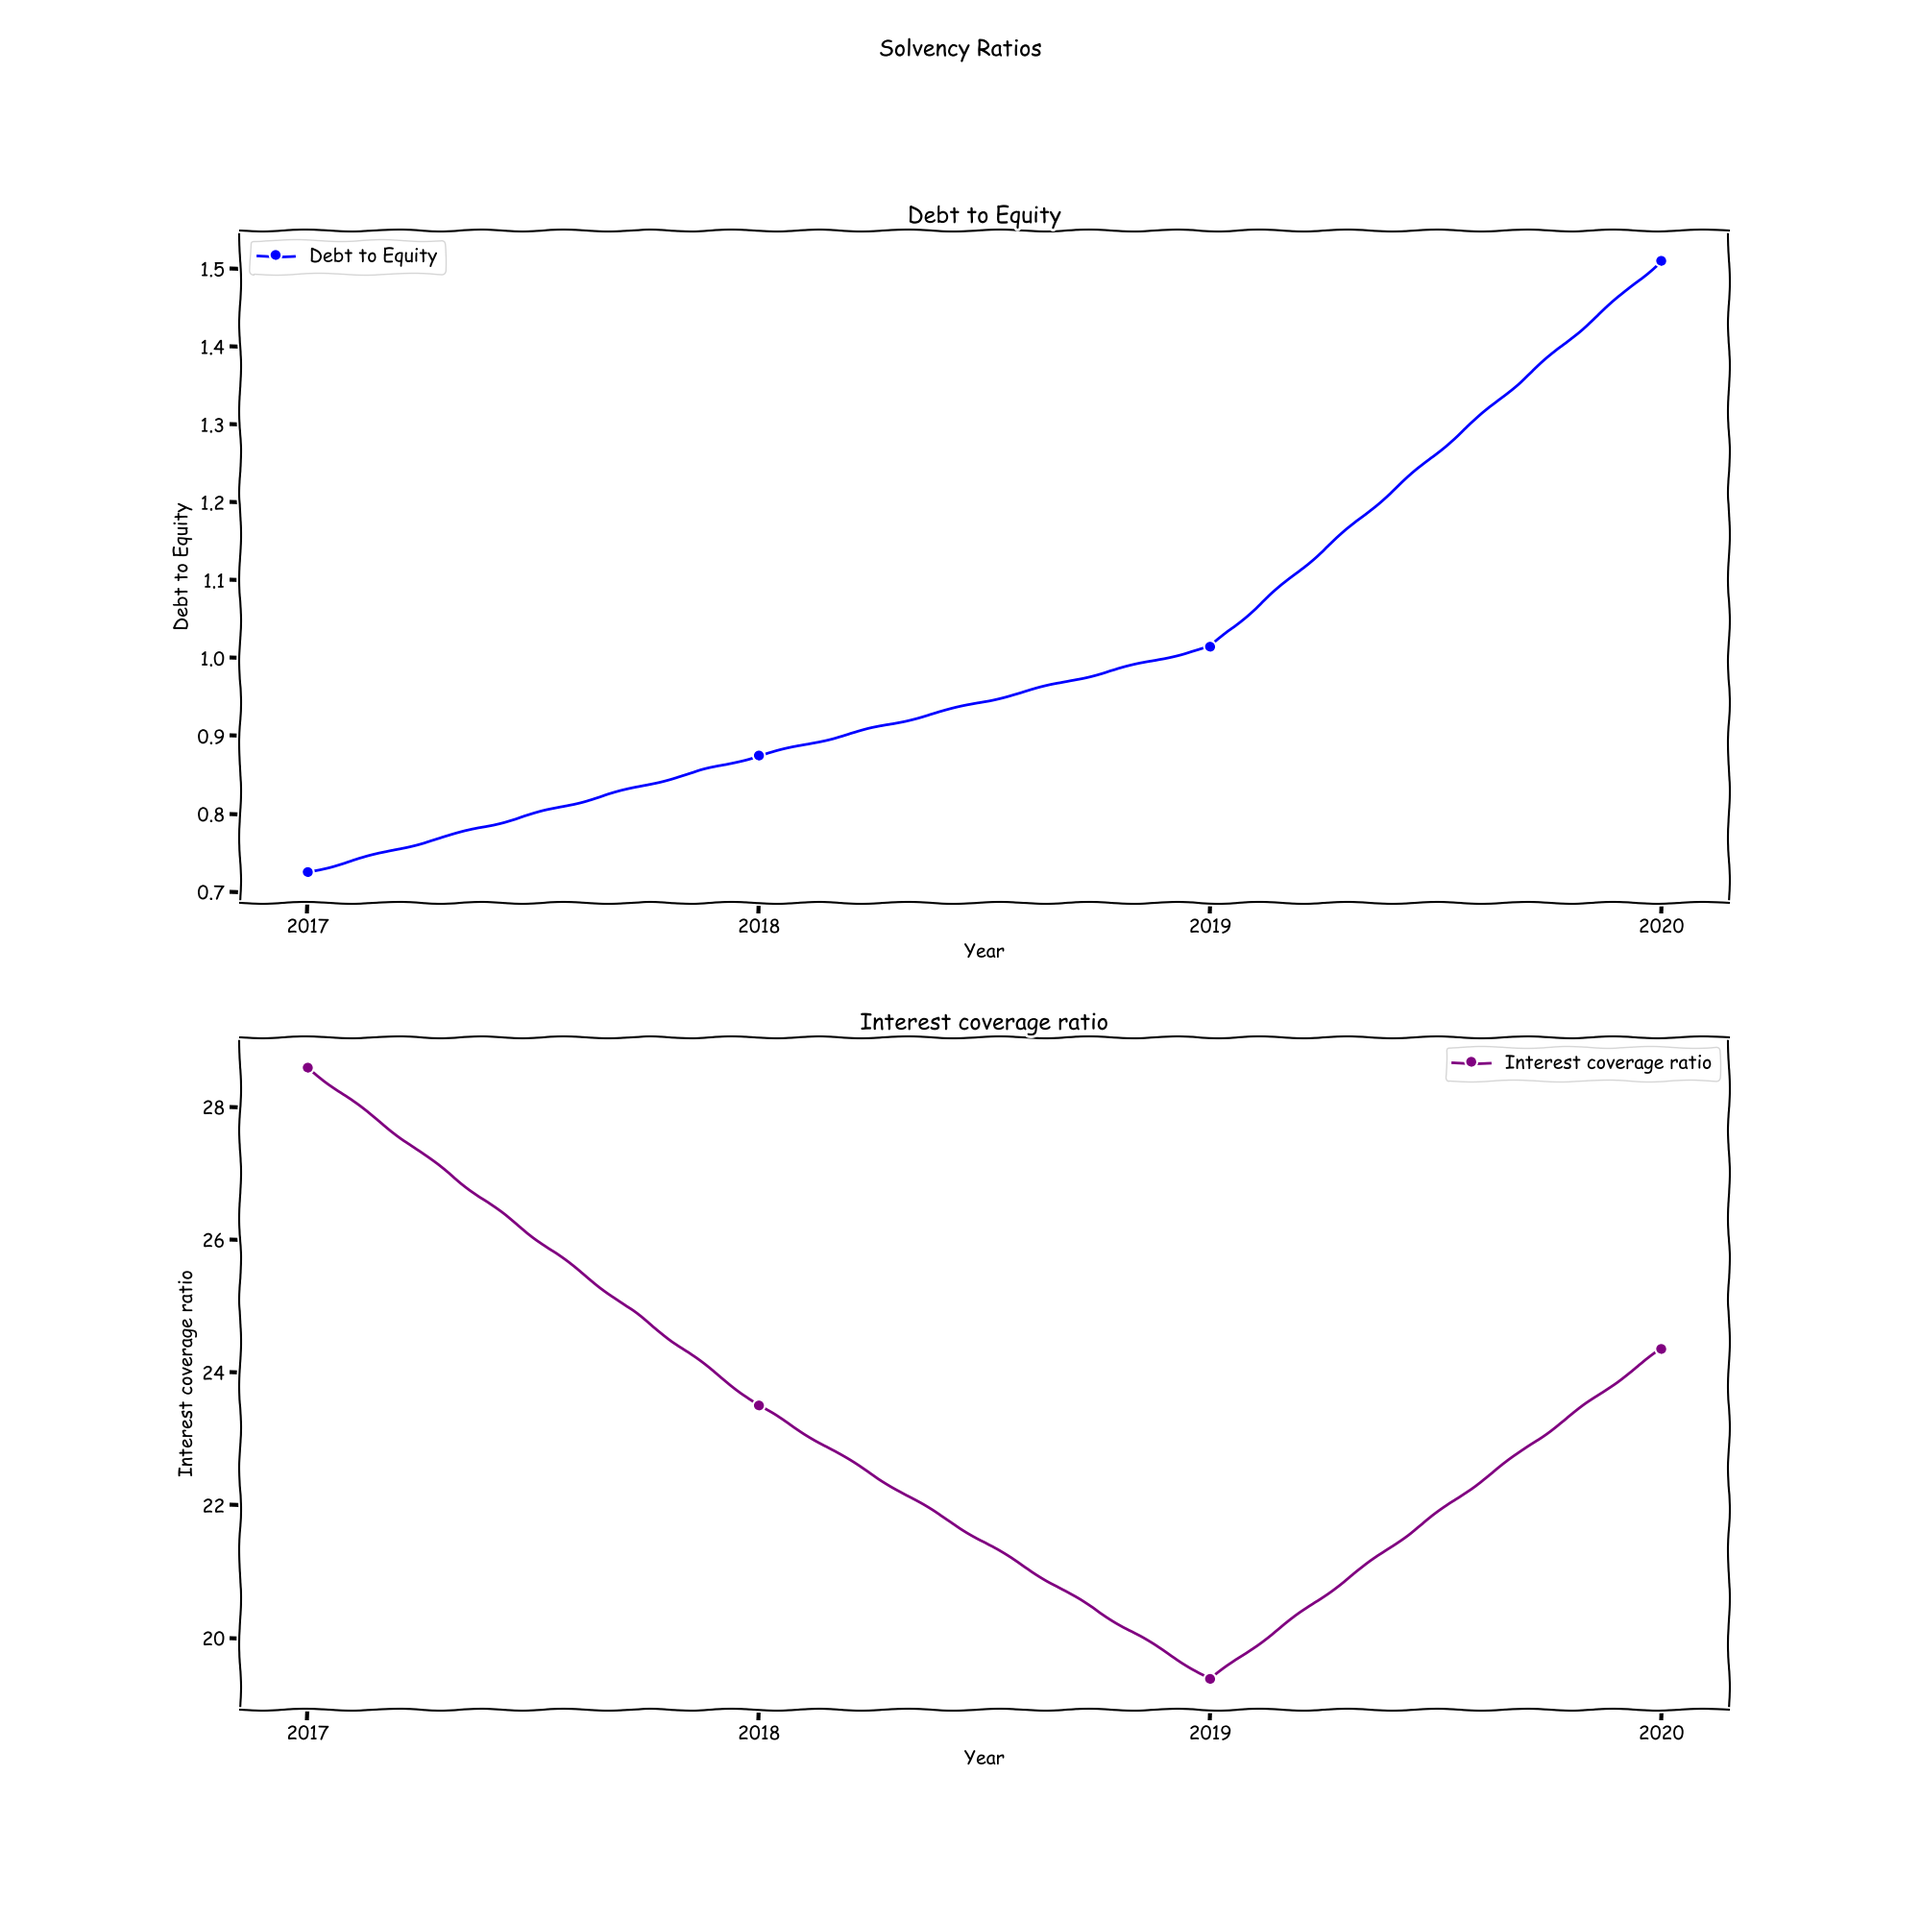
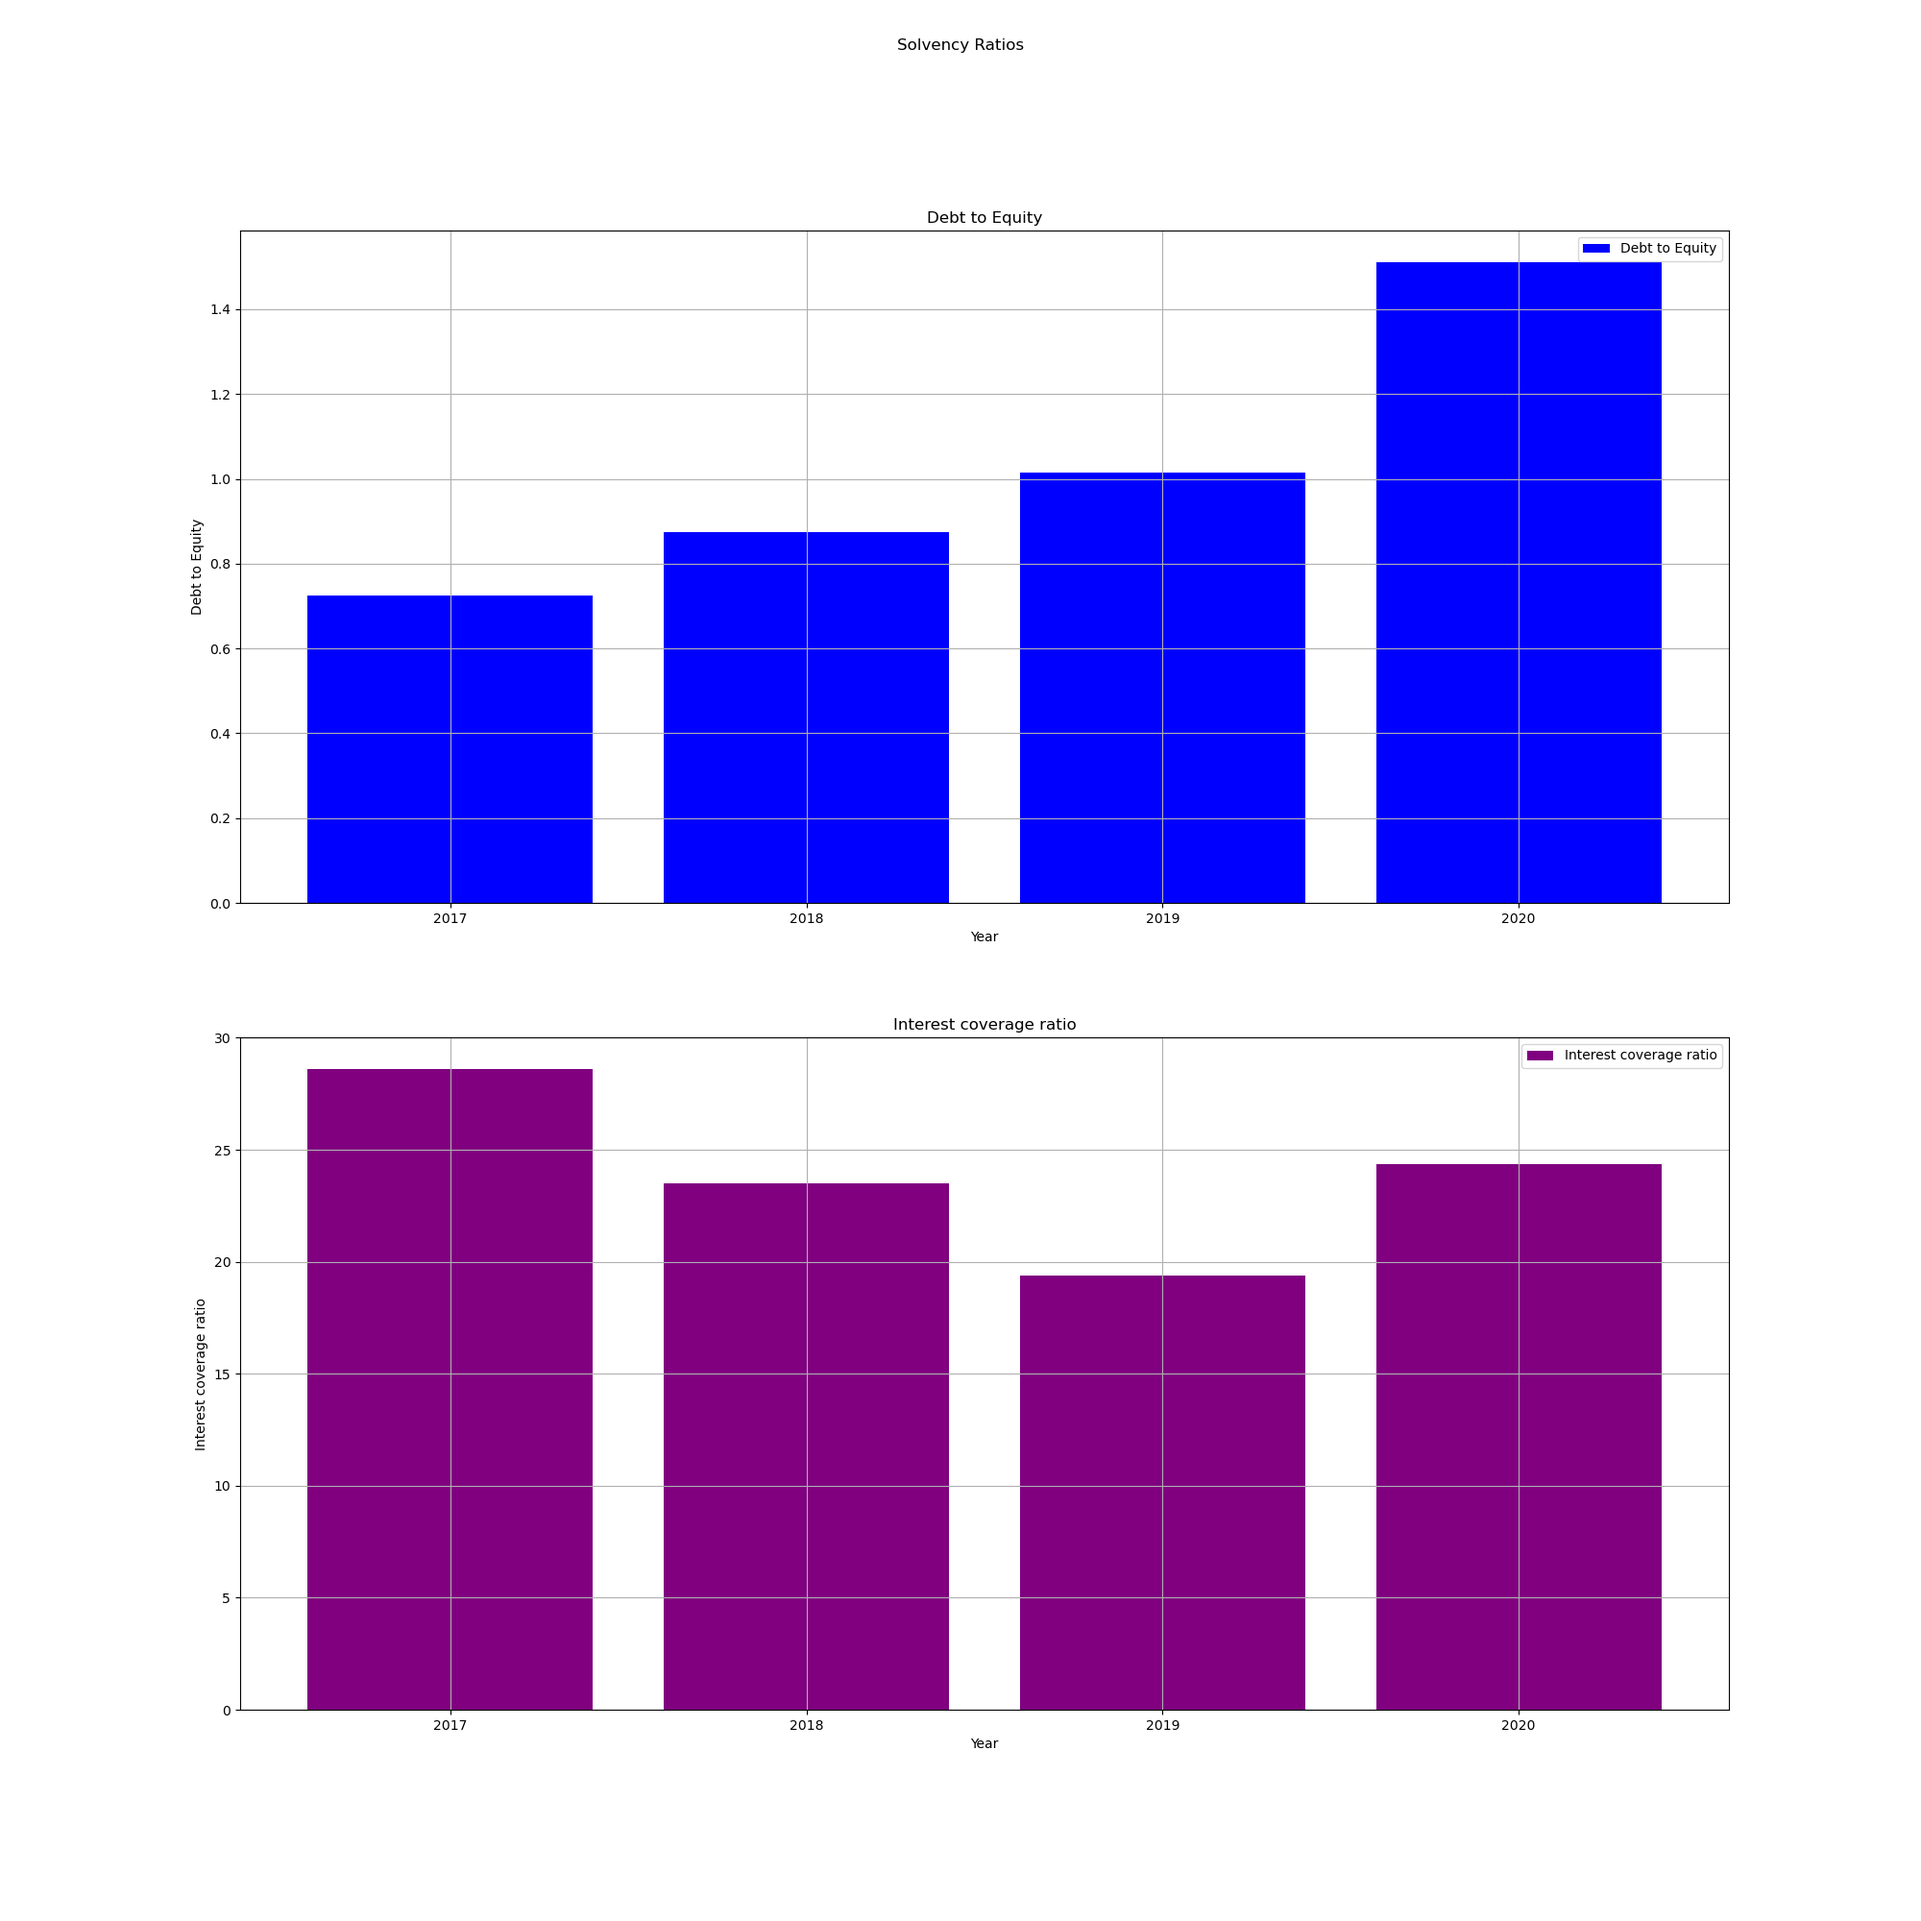
bar chart
bar chart added

diff --git a/Plotter.py b/Plotter.py
@@ -7,7 +7,7 @@ Purpose: plot
 import os
 from matplotlib import pyplot as plt
 
-plt.xkcd()
+#plt.xkcd()
 
 class Plotter():
 
@@ -31,13 +31,13 @@ class Plotter():
             figs,axs = plt.subplots(len(args))
             figs.suptitle("Solvency Ratios")
             figs.set_size_inches(20, 20)
-            axs[0].plot(self.xaxis, self.debt2equity, label="Debt to Equity", color='blue', marker='o')
+            axs[0].bar(self.xaxis, self.debt2equity, label="Debt to Equity", color='blue')
             axs[0].grid(True)
             axs[0].set_title("Debt to Equity")
             axs[0].set_xlabel("Year")
             axs[0].set_ylabel("Debt to Equity")
             axs[0].legend()
-            axs[1].plot(self.xaxis, self.int_cov_ratio[:-1], label="Interest coverage ratio", color='purple', marker='o')
+            axs[1].bar(self.xaxis, self.int_cov_ratio[:-1], label="Interest coverage ratio", color='purple')
             axs[1].grid(True)
             axs[1].set_title("Interest coverage ratio")
             axs[1].set_xlabel("Year")
